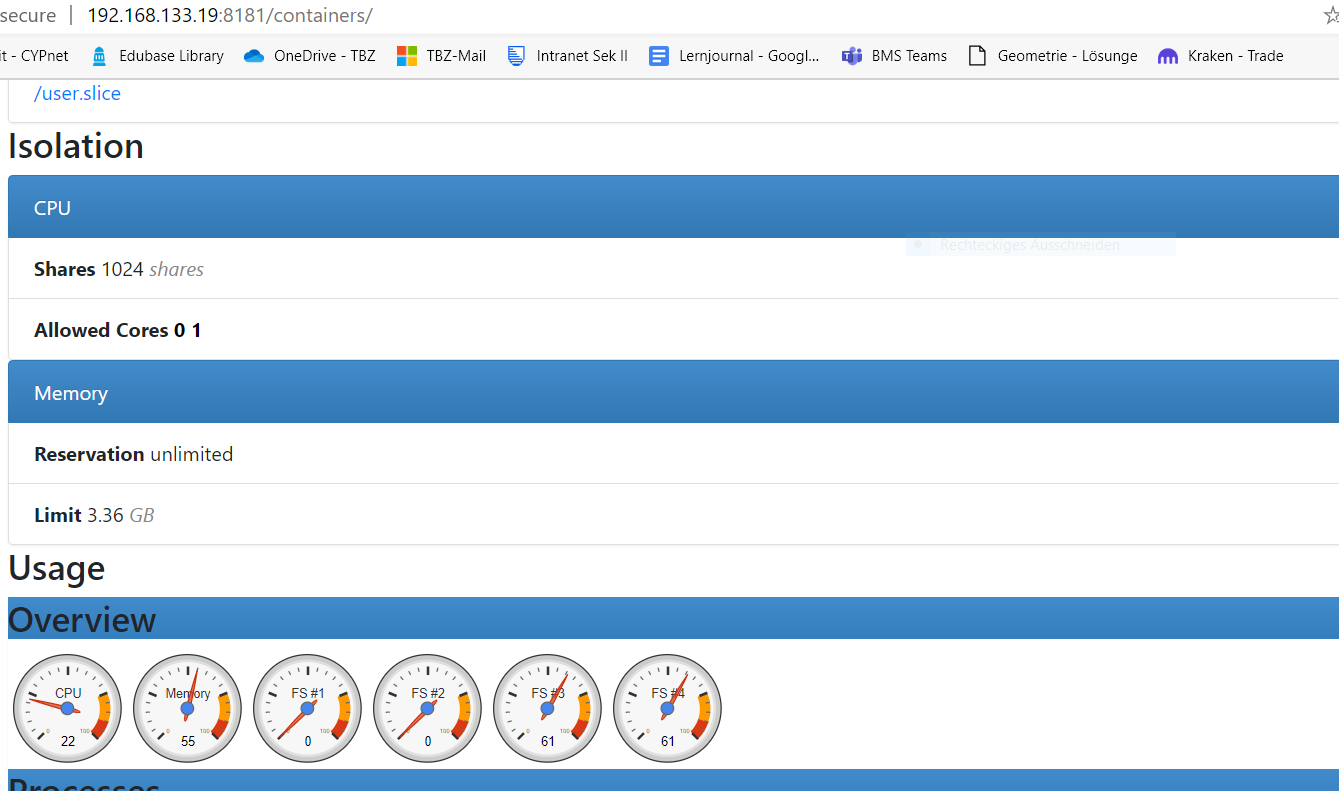
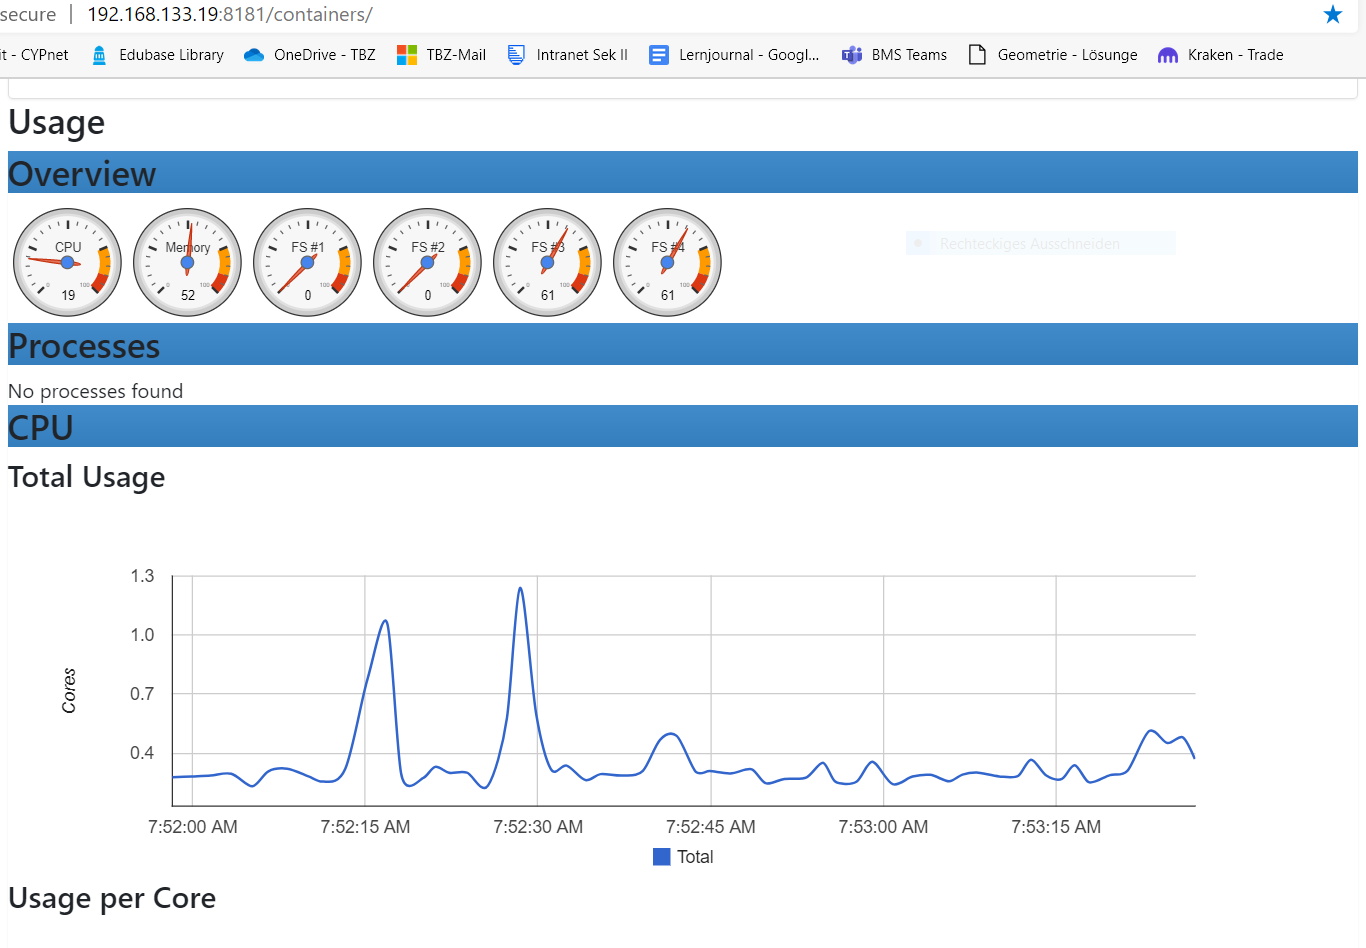
lb3-commit

diff --git a/LB3/lb3-Doku.md b/LB3/lb3-Doku.md
@@ -4,9 +4,9 @@
 
 Zuerst musste ich mich mit Docker auseinandersetzen, da ich noch nie zuvor mit Docker gearbeitet habe. Als ich es dan im Griff hatte, entschied ich mich mithilfe von Wordpress, zwischen einem Webserver-Container und einem Db-Container eine Verbindung erstellt, damit der Webserver Zugriff auf die Db hat.
 
-### Vorgehen
+### Wichtigste Befehle
 
-#### Kompetenz 3
+### Kompetenz 3
 
 Ich habe den bestehenden Docker-Container kombiniert, als Backend und Frontend als Desktop-App und das Volumen zur persistenten eingerichtet, indem ich eine Verbindung zwischen der VM und Worpress hergestellt habe. Um überhaupt zugriff auf den Server zu haben, welcher von der TBZ zur verfügung gestellt wurde, musste ich zuerst Wireguard einrichten. Danach konnte ich über Git-Bash auf die VM zugreifen, auf welcher Docker bereits installiert war.
 
@@ -23,15 +23,18 @@ sudo docker run --name my-wordpress -p 8080:80 --link my-db:mysql -d wordpress
 Nachdem ich diese zwei command ausgeführt habe, musste ich auf diesen Link http://192.168.113.19:8080 gehen, um die installation zu beenden. 
 
 
-##### Test
+#### Test
 
 Ob alles funktioniert hat, habe ich so getestet, indem ich die welche mir zugewiesen wurdene IP (192.168.113.19) in die url eingebe.
 
 ![](https://github.com/maksim304/M300/blob/master/LB3/img/wordpress-hallo%20welt.PNG)
 
- #### Kompetenz 4
+ ### Kompetenz 4
 
  Bei der Service-Überwachung habe ich mich für das Docker Tool 'cAdvisor' entschieden, da es mir einen grafischen Überblick über den Ressourceneinsatz und Performance-Metriken von Containern anzeigt.
+ 
+
+ So sieht das ganze dann aus:
 
  ![](https://github.com/maksim304/M300/blob/master/LB3/img/cadvisor1.PNG)
  ![](https://github.com/maksim304/M300/blob/master/LB3/img/cadvisor2.PNG)
